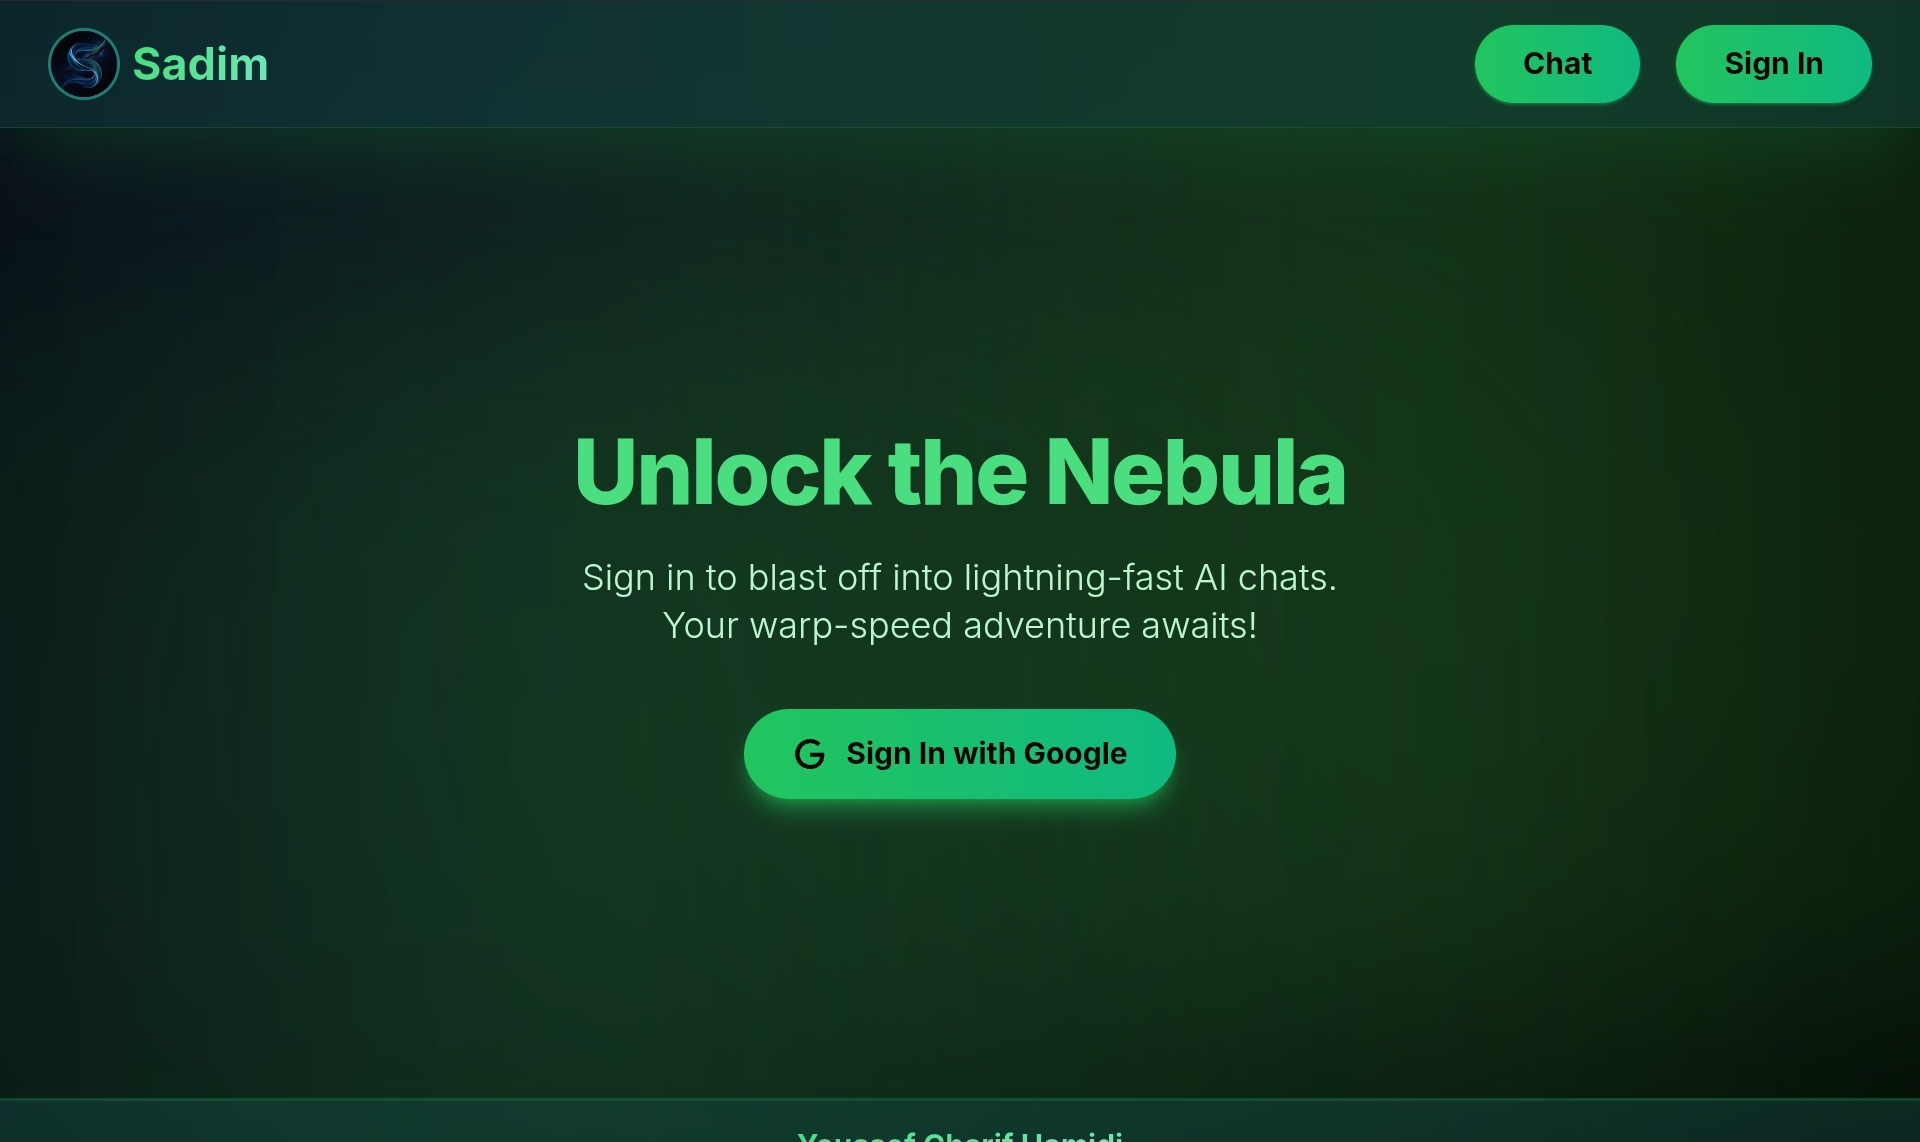
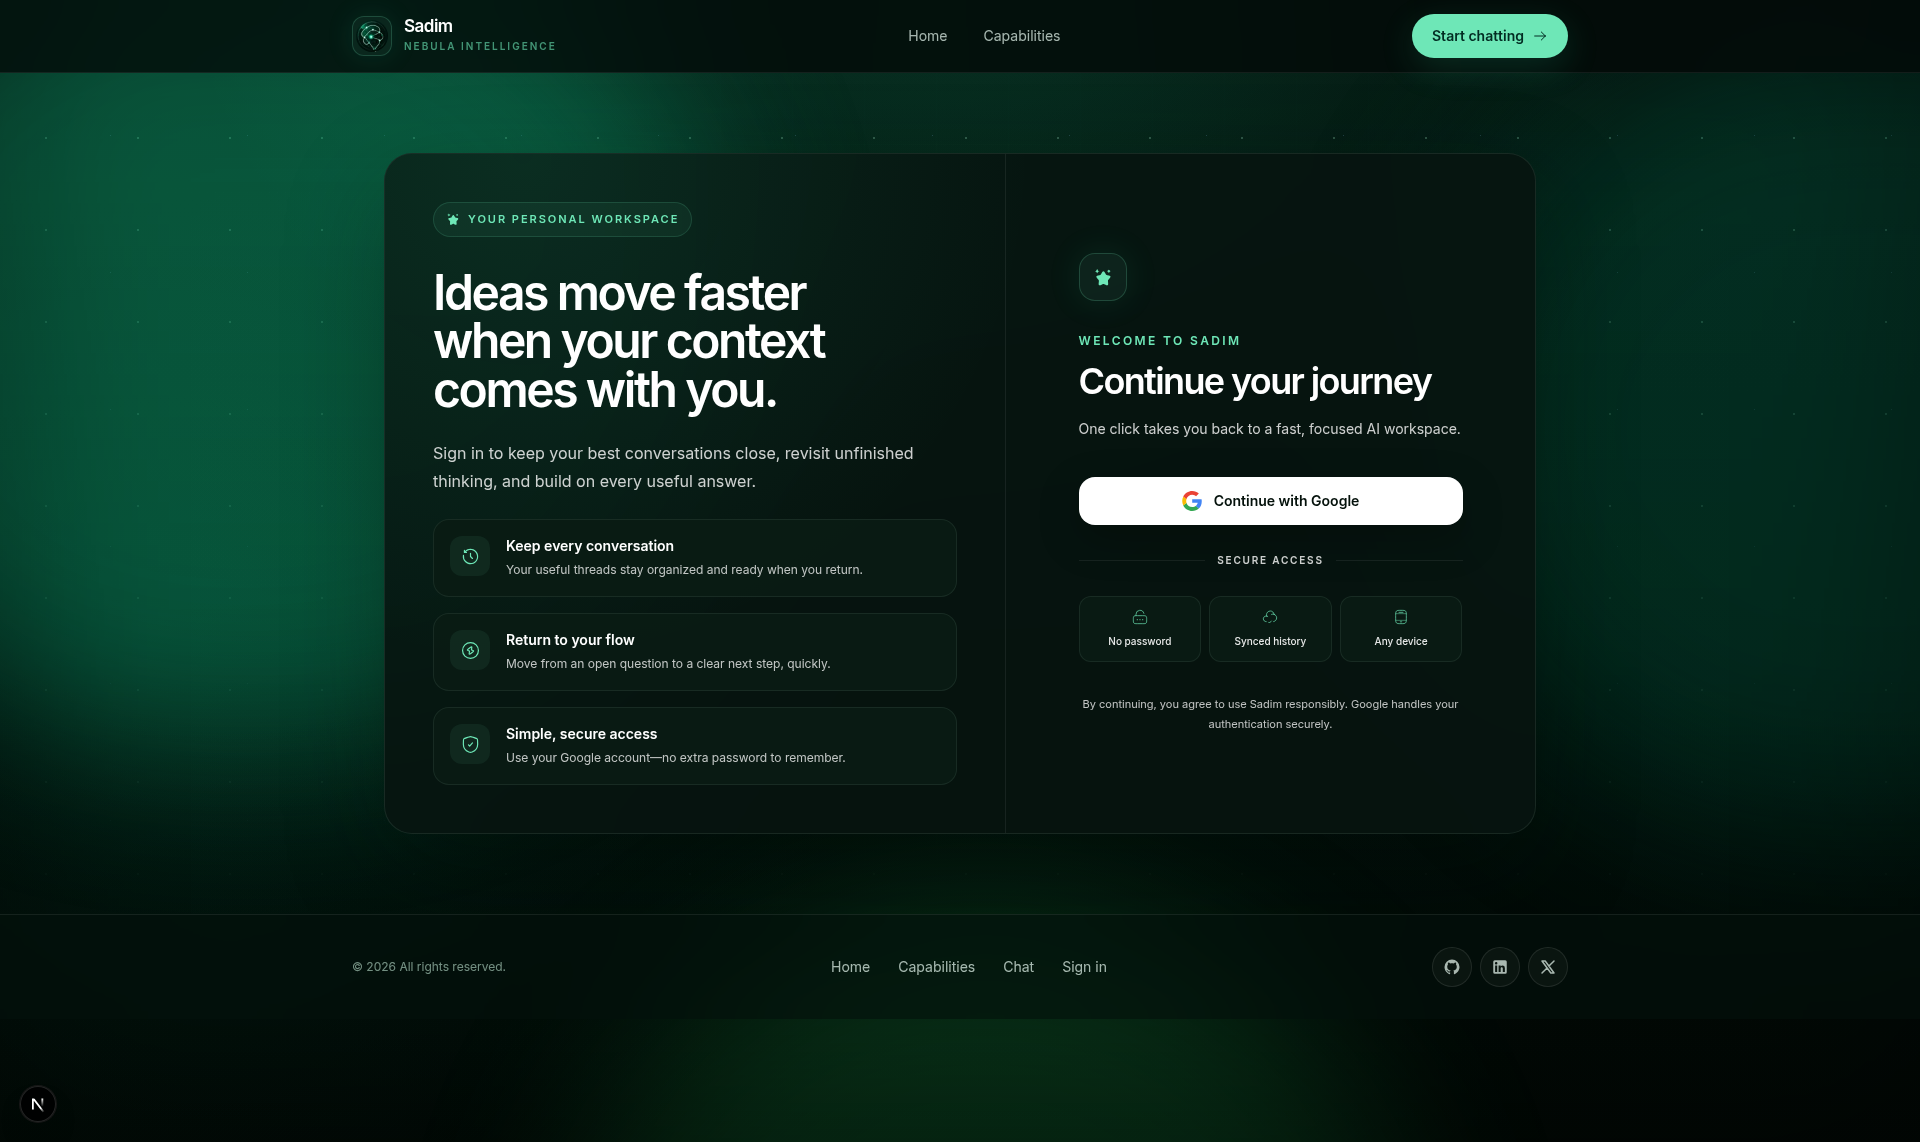
Refresh Sadim screenshots

diff --git a/lib/i18n.ts b/lib/i18n.ts
@@ -213,7 +213,7 @@ export const copy = {
             "Authentication and cloud persistence",
           ],
           imageAlt:
-            "Sadim AI chat interface showing a generated technical interview response",
+            "Sadim AI workspace showing Antoine's saved food-sharing project conversations and active pickup-planning chat",
         },
       ],
       archiveEyebrow: "Systems archive",
@@ -508,7 +508,7 @@ export const copy = {
             "Authentification et stockage dans le cloud",
           ],
           imageAlt:
-            "Interface de Sadim AI affichant une réponse générée pour un entretien technique",
+            "Espace Sadim AI affichant les conversations enregistrées d’Antoine sur un projet de partage alimentaire et un échange actif sur le retrait",
         },
       ],
       archiveEyebrow: "Archives techniques",

diff --git a/data/portfolio.ts b/data/portfolio.ts
@@ -61,7 +61,7 @@ export const supportingProjects = [
     technology: ["Next.js", "TypeScript", "Firebase", "NextAuth", "Groq API"],
     image: "/sadim3.png",
     imageAlt:
-      "Sadim AI chat interface showing a generated technical interview response",
+      "Sadim AI workspace showing Antoine's saved food-sharing project conversations and active pickup-planning chat",
     live: "https://sadim-ai.com",
     source: "https://github.com/Chareeef/SadimAI",
   },
